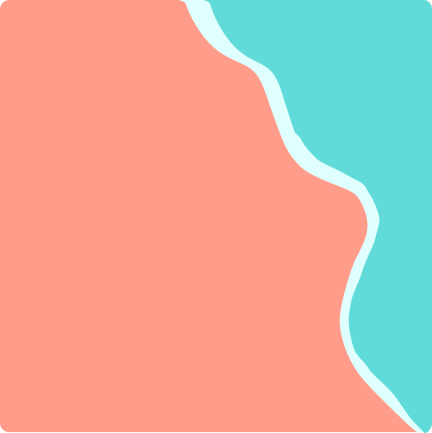
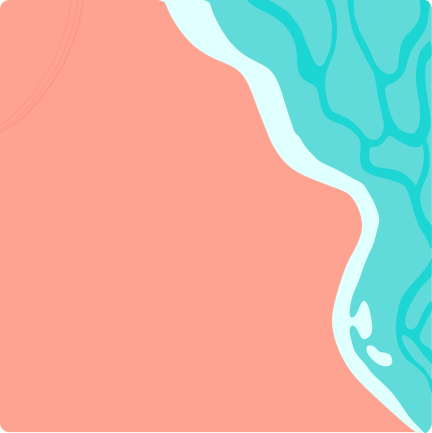
Add location grid templating

diff --git a/content/css/main.css b/content/css/main.css
@@ -5,6 +5,12 @@
     touch-action: manipulation;
 }
 
+:root {
+  --locations-side: 140px;
+  --locations-grid-gap: 8px;
+  --locations-grid-gap: 8px;
+}
+
 .light {
     --background: #fff;
     --light-gray: #f2f2f2;
@@ -609,7 +615,7 @@ input:checked + .slider:before {
 }
 
 .players {
-  margin: 20px auto;
+  margin: 30px auto;
 }
 
 .players h3 {
@@ -657,17 +663,56 @@ input:checked + .slider:before {
 }
 
 
-/*
-.players .players-grid .player-card.striked:after {
-  content: '';
-  position: absolute;
-  display: block;
-  width: 100%;
-  height: 2px;
-  box-shadow: 0 1px rgba(255,255,255,0.6);
-  margin-top: -0.7em;
-  background: black;
-  transform-origin: center left;
-  animation: strikethrough 1s 0.5s cubic-bezier(.55, 0, .1, 1) 1;
-  transition: transform 0.5s cubic-bezier(.55, 0, .1, 1);
-}*/
+.locations {
+  margin: 30px auto;
+  padding: 15px;
+}
+
+.locations h3 {
+  color: var(--text-gray-white);
+  font-weight: bold;
+}
+
+.locations .locations-grid {
+  display: grid;
+  grid-template-columns: 1fr 1fr;
+  grid-gap: var(--locations-grid-gap);
+  margin: 0 auto;
+  width: calc((var(--locations-side) * 2) + (1 * var(--locations-grid-gap)));
+  max-width: 800px;
+  /*padding: 15px;*/
+  text-align: center;
+}
+
+.locations .locations-grid .location-card {
+  width: var(--locations-side);
+  height: var(--locations-side);
+  /*background-image: url('../includes/imgs/bgs/beach.png');*/
+  /*background-image: attr(data-url url);*/
+  background-size: cover;
+  display: flex;
+  justify-content: center;
+  align-items: center;
+  font-size: 18px;
+  font-weight: bold;
+}
+
+
+@media (min-width: 600px) {
+  .locations .locations-grid { 
+    grid-template-columns: 1fr 1fr 1fr;
+    width: calc((var(--locations-side) * 3) + (2 * var(--locations-grid-gap)));
+  }
+}
+@media (min-width: 800px) {
+  .locations .locations-grid { 
+    grid-template-columns: 1fr 1fr 1fr 1fr;
+    width: calc((var(--locations-side) * 4) + (3 * var(--locations-grid-gap)));
+  }
+}
+@media (min-width: 1000px) {
+  .locations .locations-grid { 
+    grid-template-columns: 1fr 1fr 1fr 1fr 1fr 1fr;
+    width: calc((var(--locations-side) * 6) + (5 * var(--locations-grid-gap)));
+  }
+}

diff --git a/content/game.html b/content/game.html
@@ -50,11 +50,20 @@
             </div>
         </div>
 
-
         <div class="locations">
             <h3>Locations</h3>
             <div class="locations-grid">
-                <div class="location-card" data-content="Beach">Beach</div>
+                <div class="location-card" data-url="./includes/imgs/bgs/spy.png">Beach</div>
+                <div class="location-card" data-url="./includes/imgs/bgs/beach.png">Beach</div>
+                <div class="location-card" data-url="./includes/imgs/bgs/beach.png">Beach</div>
+                <div class="location-card" data-url="./includes/imgs/bgs/beach.png">Beach</div>
+                <div class="location-card" data-url="./includes/imgs/bgs/beach.png">Beach</div>
+                <div class="location-card" data-url="./includes/imgs/bgs/beach.png">Beach</div>
+                <div class="location-card" data-url="./includes/imgs/bgs/beach.png">Beach</div>
+                <div class="location-card" data-url="./includes/imgs/bgs/beach.png">Beach</div>
+                <div class="location-card" data-url="./includes/imgs/bgs/beach.png">Beach</div>
+                <div class="location-card" data-url="./includes/imgs/bgs/beach.png">Beach</div>
+                <div class="location-card" data-url="./includes/imgs/bgs/beach.png">Beach</div>
             </div>
         </div>
 
@@ -82,6 +91,13 @@
             item.classList.toggle('striked');
           })
         })
+
+        var imgs_list = document.getElementsByClassName('location-card');
+
+        for (var i = 0; i < imgs_list.length; i++) {
+          var src = imgs_list[i].getAttribute('data-url');
+          imgs_list[i].style.backgroundImage="url('" + src + "')";
+        }
     </script>
 </body>
 </html>
